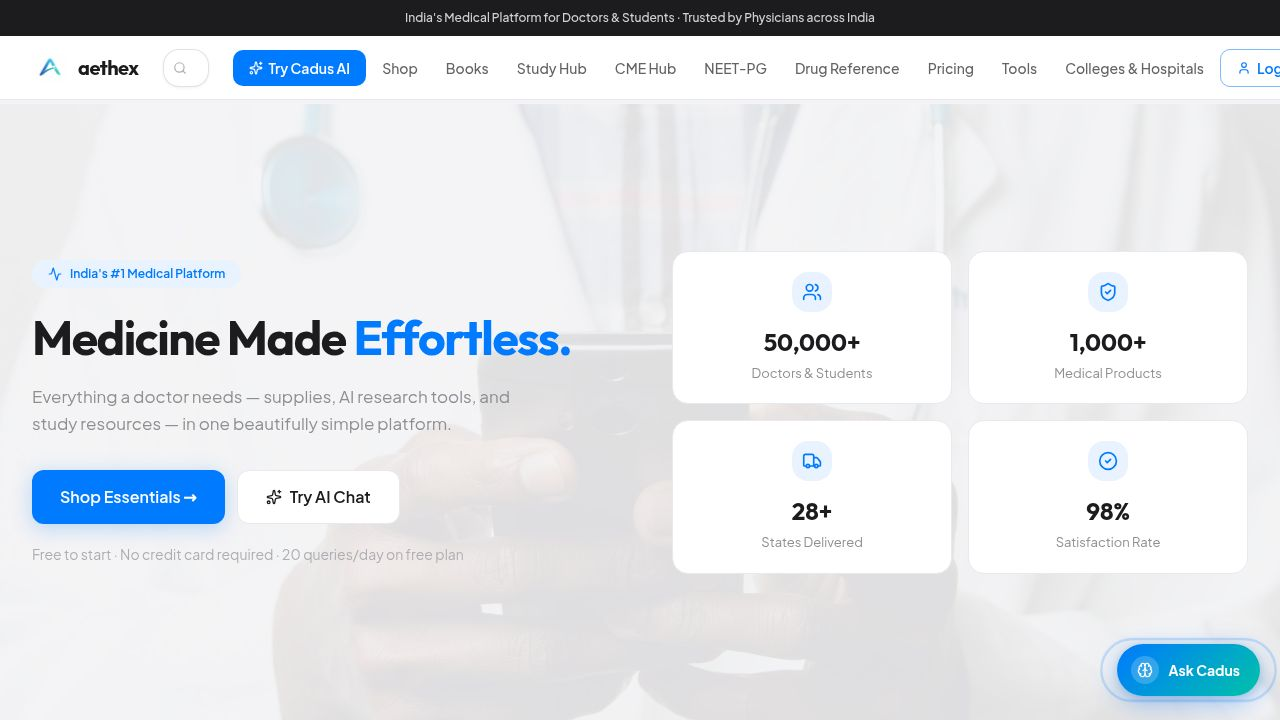
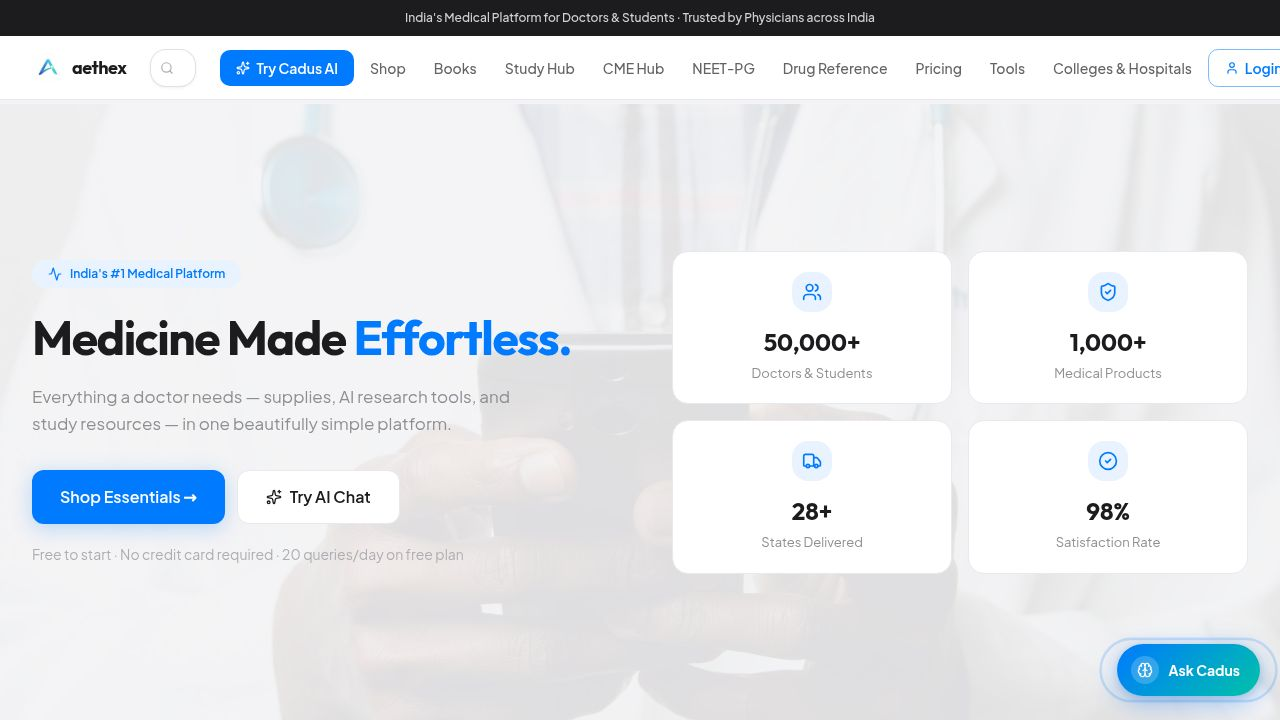
Add new medical tools and community features to the platform
Register routes for the new Calculator, Jobs, Community, and Clinical Cases pages in the application router.

Replit-Commit-Author: Agent
Replit-Commit-Session-Id: 6c01686e-26b7-4d41-89f2-177a9ca7dbe9
Replit-Commit-Checkpoint-Type: full_checkpoint
Replit-Commit-Event-Id: cf5e1d6d-36c7-4257-93f7-93251fdfdf2d
Replit-Commit-Screenshot-Url: https://storage.googleapis.com/screenshot-production-us-central1/86ec9eb8-ddce-4064-8b45-1d53980a3aec/6c01686e-26b7-4d41-89f2-177a9ca7dbe9/wxj0DTn
Replit-Helium-Checkpoint-Created: true

Changed region(s): [[0.0312, 0.0611, 1.0, 0.1222]]

diff --git a/artifacts/aethex/src/App.tsx b/artifacts/aethex/src/App.tsx
@@ -71,6 +71,10 @@ import SellerOrders from "@/pages/seller/Orders";
 import SellerPayouts from "@/pages/seller/Payouts";
 import SellerAnalytics from "@/pages/seller/Analytics";
 import SellerSettings from "@/pages/seller/Settings";
+import CalculatorPage from "@/pages/Calculator";
+import Jobs from "@/pages/Jobs";
+import Community from "@/pages/Community";
+import ClinicalCases from "@/pages/ClinicalCases";
 
 const queryClient = new QueryClient({
   defaultOptions: {
@@ -209,6 +213,12 @@ function Router() {
                 <Route path="/blog/:slug" component={BlogPost} />
                 <Route path="/blog" component={Blog} />
                 <Route path="/news" component={MedicalNews} />
+
+                {/* New feature pages */}
+                <Route path="/calculator" component={CalculatorPage} />
+                <Route path="/jobs" component={Jobs} />
+                <Route path="/community" component={Community} />
+                <Route path="/cases" component={ClinicalCases} />
 
                 <Route component={NotFound} />
               </Switch>